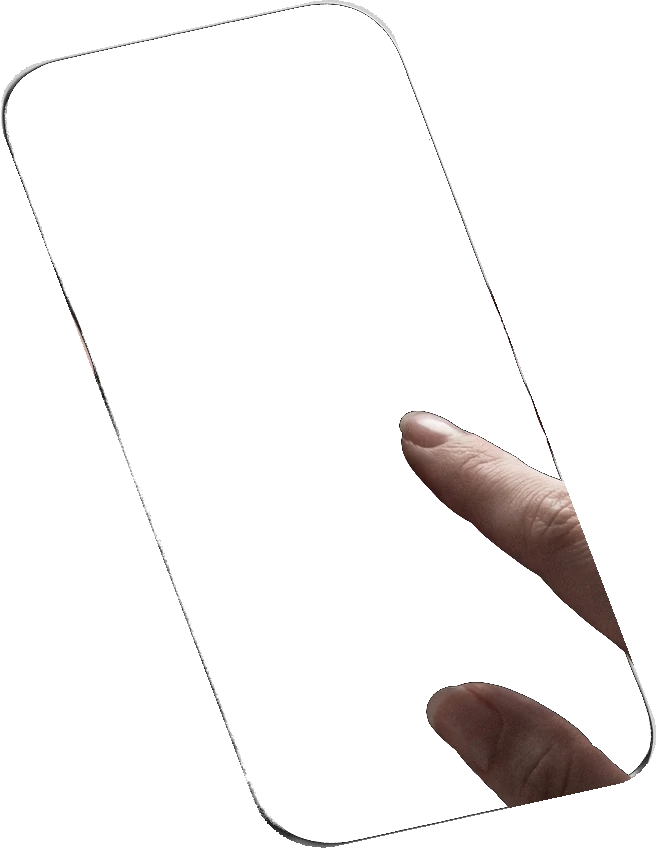
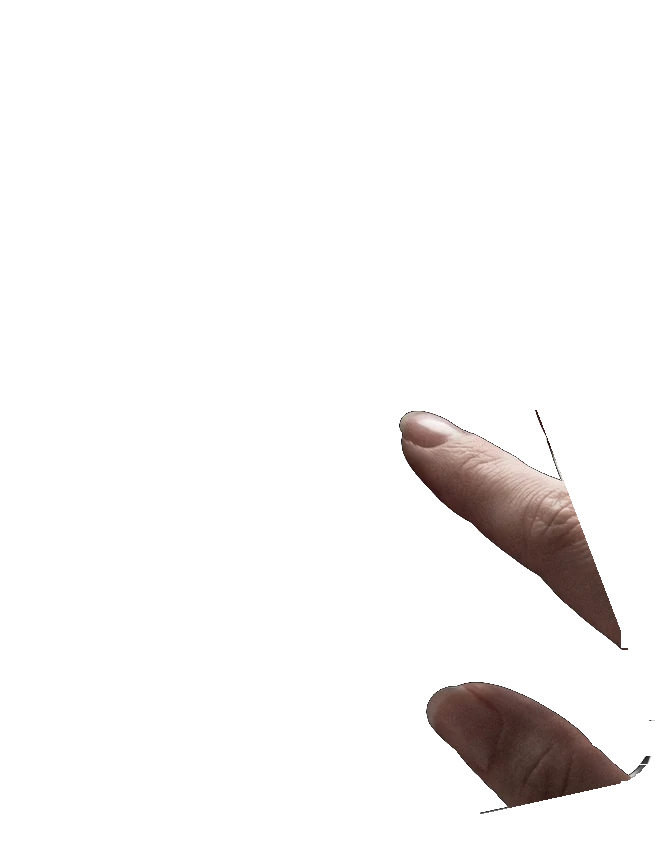
fix(chat): 50% desktop zoom, sub-second XMTP send caching, burn message formatting, spotless phone showcase cutout alignments

diff --git a/lib/xmtp/client.ts b/lib/xmtp/client.ts
@@ -319,6 +319,8 @@ export function destroyXMTPClient(address: string): void {
   // [AUDIT FIX] Clear the inbox-id→address cache on client destroy so stale entries
   // from the previous wallet don't pollute a new session (e.g. after wallet switch).
   inboxIdToAddressCache.clear();
+  registeredAddressCache.clear();
+  activeDmCache.clear();
 }
 
 /**
@@ -407,11 +409,18 @@ export async function getDmId(client: Client, peerAddress: string): Promise<stri
  * After sending, syncs the conversation to confirm delivery.
  */
 
+// Cache for verified registered address casing to avoid redundant network calls
+const registeredAddressCache = new Map<string, string>();
+// Cache for active DM conversation objects by inboxId:peerAddress to avoid re-creating MLS sessions per message
+const activeDmCache = new Map<string, any>();
+
 /**
  * Resolves the EXACT casing of the peer's Ethereum address that is registered on XMTP.
  * Sending to the wrong casing on XMTP v5.3.0 creates a ghost DM.
  */
 export async function getRegisteredAddress(address: string): Promise<string> {
+  const cached = registeredAddressCache.get(address.toLowerCase());
+  if (cached) return cached;
   try {
     const identifier = { identifier: address, identifierKind: 'Ethereum' };
     const result = await Client.canMessage([identifier as any], XMTP_ENV);
@@ -420,6 +429,7 @@ export async function getRegisteredAddress(address: string): Promise<string> {
       const lower = address.toLowerCase();
       for (const [key, val] of result.entries()) {
         if (key.toLowerCase() === lower && val === true) {
+          registeredAddressCache.set(lower, key);
           return key; // Return EXACT registered casing
         }
       }
@@ -427,6 +437,7 @@ export async function getRegisteredAddress(address: string): Promise<string> {
       const lower = address.toLowerCase();
       for (const key of Object.keys(result)) {
         if (key.toLowerCase() === lower && (result as any)[key] === true) {
+          registeredAddressCache.set(lower, key);
           return key;
         }
       }
@@ -465,26 +476,49 @@ export async function sendMessage(
     identifierKind: 'Ethereum',
   };
 
+  const cacheKey = `${client.inboxId || ''}:${finalTo.toLowerCase()}`;
   let lastError: any = null;
+
+  // FAST PATH: If we already have a cached DM conversation handle, attempt instant transmission
+  const cachedDm = activeDmCache.get(cacheKey);
+  if (cachedDm) {
+    try {
+      const sendTimeout = new Promise<void>((_, r) => setTimeout(() => r(new Error('send timeout')), 6000));
+      await Promise.race([cachedDm.send(content), sendTimeout]);
+      // Non-blocking sync in background so UI returns immediately (< 300ms)
+      cachedDm.sync().catch(() => {});
+      console.log(`[XMTP] Ultra-fast cached delivery succeeded for ${toAddress}`);
+      return;
+    } catch (cachedErr) {
+      console.warn(`[XMTP] Cached DM handle failed, falling back to full discovery:`, cachedErr);
+      activeDmCache.delete(cacheKey);
+    }
+  }
+
   for (let i = 0; i < 3; i++) {
     try {
       const dmTimeout = new Promise<any>((_, r) => setTimeout(() => r(new Error('newDm timeout')), 8000));
       const dm = await Promise.race([client.conversations.newDmWithIdentifier(identifier), dmTimeout]);
 
       try {
-        const syncTimeout = new Promise<void>((_, r) => setTimeout(() => r(new Error('sync timeout')), 4000));
+        const syncTimeout = new Promise<void>((_, r) => setTimeout(() => r(new Error('sync timeout')), 3000));
         await Promise.race([dm.sync(), syncTimeout]);
       } catch {}
 
-      const sendTimeout = new Promise<void>((_, r) => setTimeout(() => r(new Error('send timeout')), 10000));
+      const sendTimeout = new Promise<void>((_, r) => setTimeout(() => r(new Error('send timeout')), 8000));
       await Promise.race([dm.send(content), sendTimeout]);
-      try { await dm.sync(); } catch {}
+      
+      // Store in memory cache for subsequent instant messages
+      activeDmCache.set(cacheKey, dm);
+      // Run final sync asynchronously in background without delaying user UI
+      dm.sync().catch(() => {});
       console.log(`[XMTP] Native encrypted delivery succeeded for ${toAddress}`);
       return;
     } catch (sendErr: any) {
       lastError = sendErr;
+      activeDmCache.delete(cacheKey);
       console.warn(`[XMTP] Attempt ${i + 1} for ${toAddress} did not complete:`, sendErr?.message || sendErr);
-      if (i < 2) await new Promise(r => setTimeout(r, 400));
+      if (i < 2) await new Promise(r => setTimeout(r, 300));
     }
   }
 

diff --git a/components/terminal/LedgerChatV2.tsx b/components/terminal/LedgerChatV2.tsx
@@ -163,14 +163,40 @@ const shortAddr = (addr: string) => addr ? `${addr.slice(0, 6)}...${addr.slice(-
 export const formatMessagePreview = (content: string): string => {
   if (typeof content !== 'string') return 'Message';
   let cleanContent = content;
+  let isBurn = false;
   
-  // Recursively unwrap replies
-  while (cleanContent.startsWith('__REPLY__')) {
-    const parts = cleanContent.split('__::');
-    if (parts.length >= 2) {
-      cleanContent = parts.slice(1).join('__::');
-    } else {
-      break;
+  // Recursively unwrap replies, burn/self-destruct, thread, forward wrappers
+  let unwrapped = true;
+  while (unwrapped) {
+    unwrapped = false;
+    if (cleanContent.startsWith('__REPLY__')) {
+      const parts = cleanContent.split('__::');
+      if (parts.length >= 2) {
+        cleanContent = parts.slice(1).join('__::');
+        unwrapped = true;
+      }
+    }
+    if (cleanContent.startsWith('__BURN_')) {
+      const parts = cleanContent.split('__::');
+      if (parts.length >= 2) {
+        cleanContent = parts.slice(1).join('__::');
+        isBurn = true;
+        unwrapped = true;
+      }
+    }
+    if (cleanContent.startsWith('__THREAD__')) {
+      const parts = cleanContent.split('__::');
+      if (parts.length >= 2) {
+        cleanContent = parts.slice(1).join('__::');
+        unwrapped = true;
+      }
+    }
+    if (cleanContent.startsWith('__FORWARD__')) {
+      const parts = cleanContent.split('__::');
+      if (parts.length >= 2) {
+        cleanContent = parts.slice(1).join('__::');
+        unwrapped = true;
+      }
     }
   }
 
@@ -182,11 +208,13 @@ export const formatMessagePreview = (content: string): string => {
   if (cleanContent.startsWith('[LOCATION]')) return '📍 Location';
   if (cleanContent.startsWith('[ATTACHMENT')) return '📎 Attachment';
   if (cleanContent.startsWith('[GIF]')) return '🖼 GIF';
-  if (cleanContent.startsWith('__PIN__') || cleanContent.startsWith('__REVOKE__') || cleanContent.startsWith('__READ__')) {
+  if (cleanContent.startsWith('__POLL__')) return '📊 Poll';
+  if (cleanContent.startsWith('__PAYMENT__')) return '💸 Payment';
+  if (cleanContent.startsWith('__PIN__') || cleanContent.startsWith('__REVOKE__') || cleanContent.startsWith('__READ__') || cleanContent.startsWith('__TYPING__')) {
     return 'System Message';
   }
 
-  return cleanContent;
+  return isBurn ? `🔥 ${cleanContent}` : cleanContent;
 };
 
 export const parseMessageText = (text: string, isMe: boolean) => {
@@ -600,10 +628,22 @@ export function LedgerChat({ forceAutoInit = false }: LedgerChatProps) {
     }, 1000);
     return () => clearInterval(interval);
   }, []);
-  
+
   const [inputText, setInputText] = useState('');
   const [peerInput, setPeerInput] = useState('');
   const [sending, setSending] = useState(false);
+
+  // Safety net: if 'sending' stays true for more than 30 s (XMTP stall /
+  // unhandled rejection), auto-reset so the user is never permanently locked out.
+  const sendingWatchdogRef = useRef(false);
+  useEffect(() => {
+    sendingWatchdogRef.current = sending;
+    if (!sending) return;
+    const t = setTimeout(() => {
+      if (sendingWatchdogRef.current) setSending(false);
+    }, 30_000);
+    return () => clearTimeout(t);
+  }, [sending]);
   const [sendAnimKey, setSendAnimKey] = useState(0);
   // ── [FASE 16: Rate Limiting Anti-Spam] ───────────────────────────────
   // Prevents spam abuse: max 5 messages per 10 seconds (App Store Guideline 1.2)
@@ -4312,8 +4352,8 @@ export function LedgerChat({ forceAutoInit = false }: LedgerChatProps) {
         // UPDATE LOCAL ADDRESS BOOK
         setConversations(prev => {
           const updated = prev.find(c => c.peerAddress.toLowerCase() === activePeer.toLowerCase())
-            ? prev.map(c => c.peerAddress.toLowerCase() === activePeer.toLowerCase() ? { ...c, lastMessage: finalContent, lastAt: new Date() } : c)
-            : [{ peerAddress: activePeer, lastMessage: finalContent, lastAt: new Date() }, ...prev];
+            ? prev.map(c => c.peerAddress.toLowerCase() === activePeer.toLowerCase() ? { ...c, lastMessage: displayContent, lastAt: new Date() } : c)
+            : [{ peerAddress: activePeer, lastMessage: displayContent, lastAt: new Date() }, ...prev];
           persistToLocal(updated);
           return updated;
         });

diff --git a/components/chat/MessageBubble.tsx b/components/chat/MessageBubble.tsx
@@ -527,6 +527,19 @@ export const MessageBubble = React.memo(({
   const isBurning = !!msg.burnAtNs;
   const secondsLeft = isBurning ? Math.max(0, Math.ceil((msg.burnAtNs - Date.now()) / 1000)) : null;
 
+  /** Format remaining burn time as a compact human-readable string (e.g. "24h", "1h 30m", "5m", "30s"). */
+  const formatBurnRemaining = (secs: number): string => {
+    if (secs <= 0) return '0s';
+    const d = Math.floor(secs / 86400);
+    const h = Math.floor((secs % 86400) / 3600);
+    const m = Math.floor((secs % 3600) / 60);
+    const s = secs % 60;
+    if (d >= 1) return h > 0 ? `${d}d ${h}h` : `${d}d`;
+    if (h >= 1) return m > 0 ? `${h}h ${m}m` : `${h}h`;
+    if (m >= 1) return s > 0 ? `${m}m ${s}s` : `${m}m`;
+    return `${s}s`;
+  };
+
   // ── What kind of message is this ──
   let content = typeof msg.content === 'string' ? msg.content : (msg.fallback || 'Message could not be shown');
 
@@ -963,7 +976,15 @@ export const MessageBubble = React.memo(({
                 <LockOpen size={11} strokeWidth={2} aria-hidden="true" /> Not end to end encrypted
               </span>
             )}
-            {isBurning && <span className="text-[12px] tabular-nums text-[#d93036]">{secondsLeft}s</span>}
+            {isBurning && secondsLeft !== null && (
+              <span
+                className={`text-[12px] tabular-nums font-medium ${secondsLeft < 60 ? 'text-[#d93036]' : secondsLeft < 3600 ? 'text-[#e07b1b]' : 'text-[#727a88]'}`}
+                title={`This message disappears in ${formatBurnRemaining(secondsLeft)}`}
+                aria-label={`Disappears in ${formatBurnRemaining(secondsLeft)}`}
+              >
+                🔥 {formatBurnRemaining(secondsLeft)}
+              </span>
+            )}
             <span className="text-[12px] tabular-nums text-[#a3a9b4]">
               {new Date(sentTime).toLocaleTimeString([], { hour: '2-digit', minute: '2-digit' })}
             </span>

diff --git a/components/landing/v2/PhoneShowcase.tsx b/components/landing/v2/PhoneShowcase.tsx
@@ -61,7 +61,7 @@ const PHONES: Phone[] = [
     w: 1600,
     h: 1066,
     m: [0.863255842, 0, 0, 0, 0, 0.847210299, 0, 0, 0, 0, 1, 0, 612.0, 86.400001526, 0, 1],
-    f: { x: 610, y: 423, w: 21, h: 296 },
+    f: { x: 610, y: 423, w: 0, h: 0 },
     Screen: VoiceCallScreen,
   },
   {
@@ -77,7 +77,7 @@ const PHONES: Phone[] = [
       0.824615639, 0.012275579, 0, 1.3135e-5, 0.054036733, 0.778028224, 0, -2.125e-6, 0, 0, 1, 0, 532.960021973,
       79.919998169, 0, 1,
     ],
-    f: { x: 552, y: 374, w: 39, h: 271 },
+    f: { x: 552, y: 374, w: 0, h: 0 },
     Screen: VideoCallScreen,
   },
   {
@@ -178,15 +178,17 @@ function PhonePhoto({ ph, i, progress, active }: { ph: Phone; i: number; progres
           </div>
         </div>
         {/* eslint-disable-next-line @next/next/no-img-element */}
-        <img
-          className={s.fingers}
-          src={ph.fingers}
-          alt=""
-          loading="lazy"
-          decoding="async"
-          draggable={false}
-          style={{ left: ph.f.x, top: ph.f.y, width: ph.f.w, height: ph.f.h }}
-        />
+        {ph.f.w > 0 && (
+          <img
+            className={s.fingers}
+            src={ph.fingers}
+            alt=""
+            loading="lazy"
+            decoding="async"
+            draggable={false}
+            style={{ left: ph.f.x, top: ph.f.y, width: ph.f.w, height: ph.f.h }}
+          />
+        )}
       </div>
     </div>
   );

diff --git a/components/layout/ZoomWrapper.tsx b/components/layout/ZoomWrapper.tsx
@@ -12,7 +12,12 @@ export function ZoomWrapper({ children }: { children: React.ReactNode }) {
             viewport.setAttribute('content', 'width=device-width, initial-scale=1.0, maximum-scale=1.0, user-scalable=0, viewport-fit=cover');
         }
 
-        const isZoomTarget = pathname === '/' || pathname === '/connect' || pathname?.startsWith('/connect');
+        const isZoomTarget =
+            pathname === '/' ||
+            pathname === '/connect' ||
+            pathname?.startsWith('/connect') ||
+            pathname === '/chat' ||
+            pathname?.startsWith('/chat');
 
         const updateZoom = () => {
             // Apply 50% scale on screens 640px and wider (desktop and tablets)

diff --git a/components/connect/ConnectView.tsx b/components/connect/ConnectView.tsx
@@ -224,9 +224,9 @@ function QrStage(p: ConnectViewProps) {
       </div>
 
       <ol className={s.qrSteps}>
-        <li>On your phone, open humanidfi.com/connect.</li>
-        <li>Tap Link another device.</li>
-        <li>Point the camera at this code. It expires after four minutes.</li>
+        <li>On your phone, open <strong>humanidfi.com/connect</strong> in a mobile browser.</li>
+        <li>Sign in with your wallet on that page.</li>
+        <li>Tap <strong>Scan a code from your computer</strong> and point the camera at this code.</li>
       </ol>
     </>
   );

diff --git a/app/chat/page.tsx b/app/chat/page.tsx
@@ -12,7 +12,7 @@ export default function ChatPage() {
   return (
     <TuringShieldGate>
       <ChatEngineProvider>
-        <div className="flex flex-col w-full h-full flex-1 min-h-0 overflow-hidden bg-white">
+        <div className="hl-zoom-50-target flex flex-col w-full h-full flex-1 min-h-0 overflow-hidden bg-white">
           <LedgerChat forceAutoInit={true} />
         </div>
       </ChatEngineProvider>
